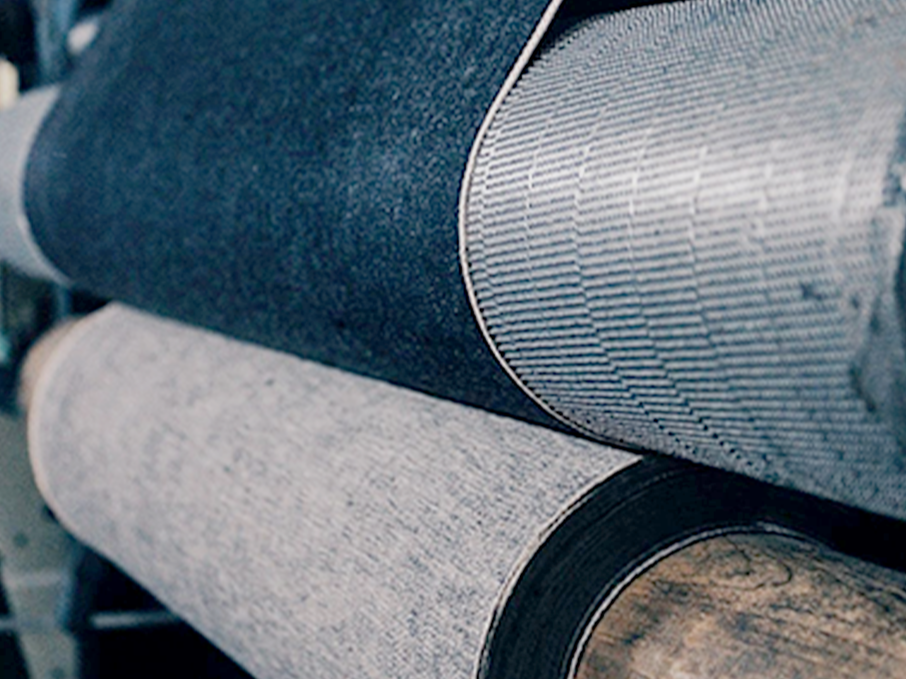
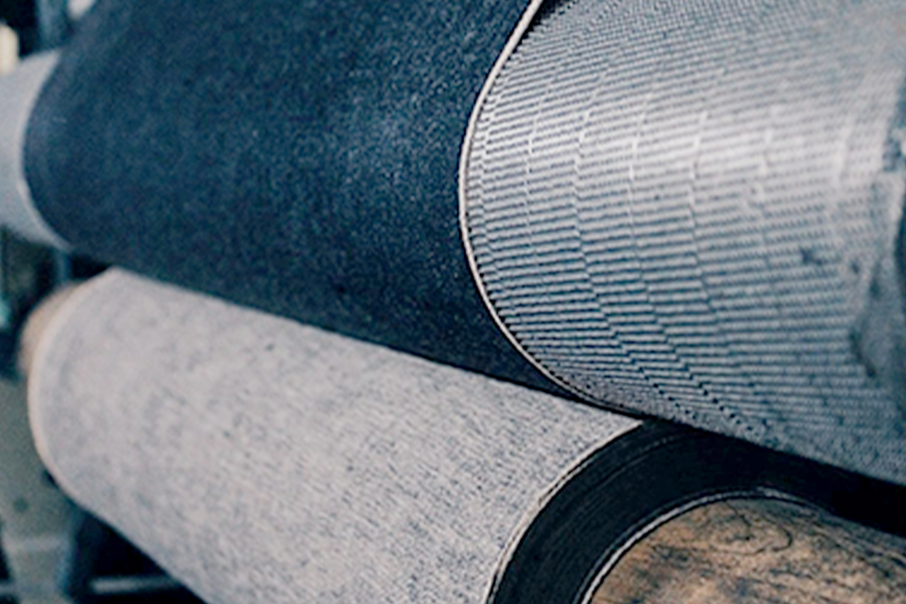
Textiles Products Updated

diff --git a/src/components/textiles/TextilesProducts.jsx b/src/components/textiles/TextilesProducts.jsx
@@ -1,8 +1,99 @@
+"use client";
+
+import { useRef } from "react";
+import { motion } from "framer-motion";
+import { headingVariant } from "@/utils/animations";
+import Link from "next/link";
+import { Swiper, SwiperSlide } from 'swiper/react';
+import { Navigation } from 'swiper/modules';
+import 'swiper/css';
+
+const textilesProductsData = [
+    {
+        id: 1,
+        image: "/images/sectors/textiles/products/1.png",
+    },
+    {
+        id: 2,
+        image: "/images/sectors/textiles/products/1.png",
+    },
+]
 
 const TextilesProducts = () => {
-    return (
-        <section>
 
+    const swiperRef = useRef(null);
+
+    return (
+        <section className="
+            pt-[2rem] sm:pt-[3rem] lg:pt-[4.5rem] xl:pt-[5rem] 2xl:pt-[5.5rem]
+            pb-[2rem] sm:pb-[3rem] lg:pb-[3rem] xl:pb-[3.5rem] 2xl:pb-[4rem]
+            flex justify-end relative
+        ">
+            {/* Slider */}
+            <div className="w-[42%] absolute top-[1rem] left-[7%] shadow-[0px_2px_20px_rgba(0,0,0,0.3)]">
+                <Swiper
+                    modules={[Navigation]}
+                    onSwiper={(swiper) => (swiperRef.current = swiper)}
+                    loop={true}
+                    className="w-full"
+                >
+                    {textilesProductsData.map((item) => (
+                        <SwiperSlide key={item.id} className="relative">
+                            <img
+                                src={item.image}
+                                alt={`Slide ${item.id}`}
+                                loading="lazy"
+                                className="w-full object-cover"
+                            />
+                        </SwiperSlide>
+                    ))}
+                </Swiper>
+            </div>
+
+            {/* Content */}
+            <div className="
+                w-[80%] shadow-[0px_2px_20px_rgba(0,0,0,0.3)]
+                pl-[35%]
+            ">
+                {/* Top */}
+                <div className="pr-[3rem] py-[3.5rem]">
+                    <h4>
+                        Explore <br /> Our Products
+                    </h4>
+                    <p className="mt-[0.7rem] lg:mt-[1.2rem]">
+                        Lorem ipsum dolor sit amet consectetur adipisicing elit. A voluptatum dolor, vitae amet soluta sit inventore totam rerum sed laborum.
+                    </p>
+                    <Link href="/" className="
+                        mt-[2.3rem] block w-max bg-white hover:bg-primary text-primary hover:text-white font-semibold transition
+                        border-primary border-[3px]
+                        py-[0.45rem] px-[1.4rem]
+                    ">
+                        Read More
+                    </Link>
+                </div>
+
+                {/* Bottom */}
+                <div className="flex justify-end">
+                    <button className="
+                            w-[40px] sm:w-[45px] lg:w-[40px] xl:w-[45px] 2xl:w-[50px]
+                            h-[40px] sm:h-[45px] lg:h-[50px] xl:h-[55px] 2xl:h-[60px]
+                            flex items-center justify-center bg-white hover:bg-primary text-primary hover:text-white transition 
+                            text-[1.8rem] sm:text-[1.8rem] lg:text-[1.8rem] xl:text-[2rem] 2xl:text-[2.2rem]
+                            border-primary border-[2px] lg:border-[3px] border-r-[2px]
+                        " onClick={() => swiperRef.current?.slidePrev()}>
+                        ‹
+                    </button>
+                    <button className="
+                            w-[40px] sm:w-[45px] lg:w-[40px] xl:w-[45px] 2xl:w-[50px]
+                            h-[40px] sm:h-[45px] lg:h-[50px] xl:h-[55px] 2xl:h-[60px]
+                            flex items-center justify-center bg-white hover:bg-primary text-primary hover:text-white transition 
+                            text-[1.8rem] sm:text-[1.8rem] lg:text-[1.8rem] xl:text-[2rem] 2xl:text-[2.2rem]
+                            border-primary border-[2px] lg:border-[3px] border-l-[2px]
+                        " onClick={() => swiperRef.current?.slideNext()}>
+                        ›
+                    </button>
+                </div>
+            </div>
         </section>
     )
 }

diff --git a/src/components/textiles/TextilesBrandOverview.jsx b/src/components/textiles/TextilesBrandOverview.jsx
@@ -7,7 +7,7 @@ import { Swiper, SwiperSlide } from 'swiper/react';
 import { Navigation } from 'swiper/modules';
 import 'swiper/css';
 
-const energyOverviewData = [
+const textilesOverviewData = [
     {
         id: 1,
         image: "/images/sectors/textiles/brand-overview/1.avif",
@@ -65,7 +65,7 @@ const TextilesBrandOverview = () => {
                     loop={true}
                     className="w-full"
                 >
-                    {energyOverviewData.map((item) => (
+                    {textilesOverviewData.map((item) => (
                         <SwiperSlide key={item.id} className="relative">
                             <img
                                 src={item.image}